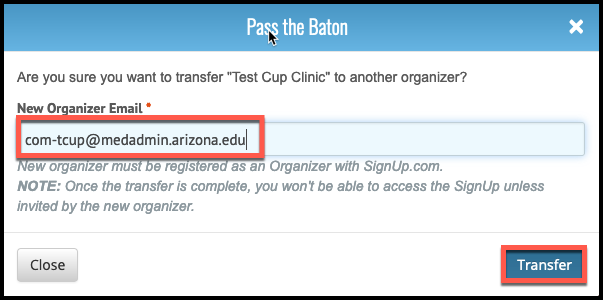
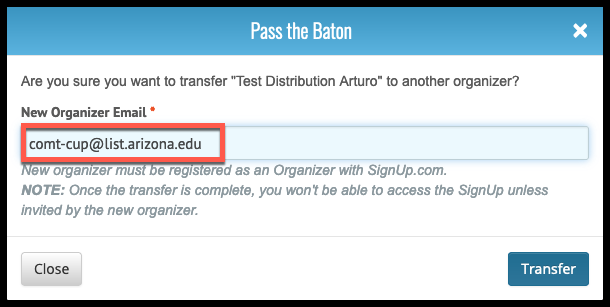
apfederico - Fix updated Email address for CUP Administrators.

Changed region(s): [[0.0, 0.0, 1.0, 0.99], [0.597, 0.6, 0.9254, 0.66], [0.597, 0.54, 0.7463, 0.57]]

diff --git a/docs/cup_organizer.md b/docs/cup_organizer.md
@@ -284,7 +284,7 @@
               <li>You can either select individual events or all events by <b>checking</b> the box next to the event or in the header</li>
               <li><b>Click</b> the transfer button</li><br />
               ![SignupTransfer2](./images/SignupTransfer2.png)
-              <li><b>Enter</b> the following email address into the New Organizer Email field <b>com-tcup@medadmin.arizona.edu</b>.</li>
+              <li><b>Enter</b> the following email address into the New Organizer Email field <b>comt-cup@list.arizona.edu</b>.</li>
               <li><b>Click</b> Enter to transfer the events. The events will be transferred to the Cup Administrators and you will no longer see them in your list.</li><br />
               ![SignupTransfer3](./images/SignupTransfer3.png)
             </ol>
